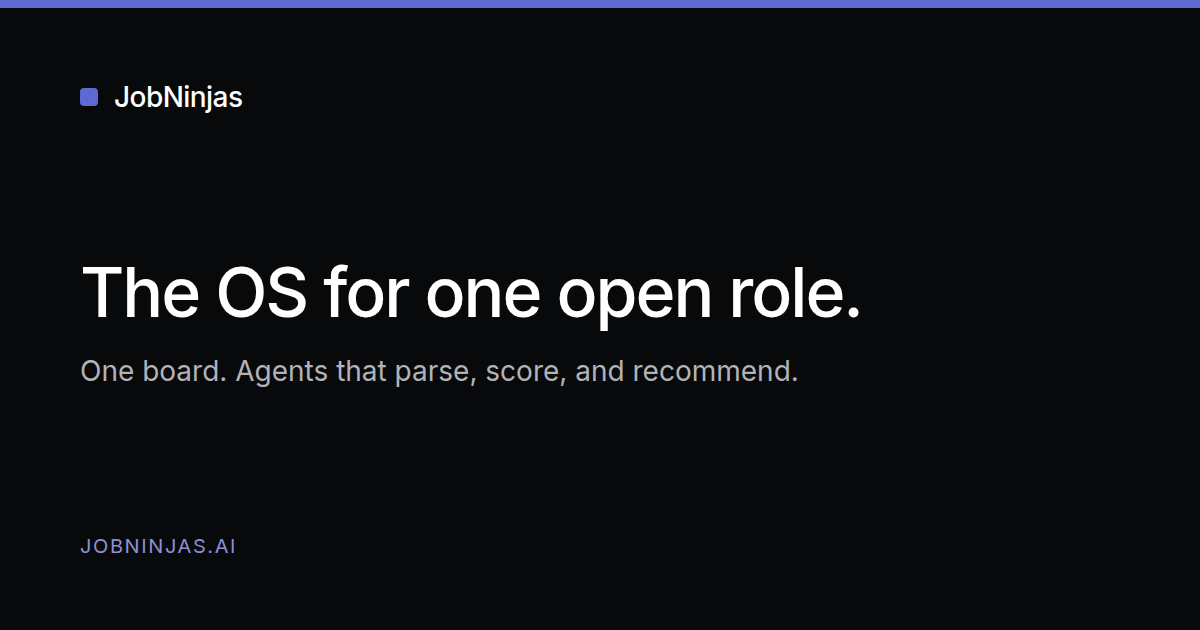
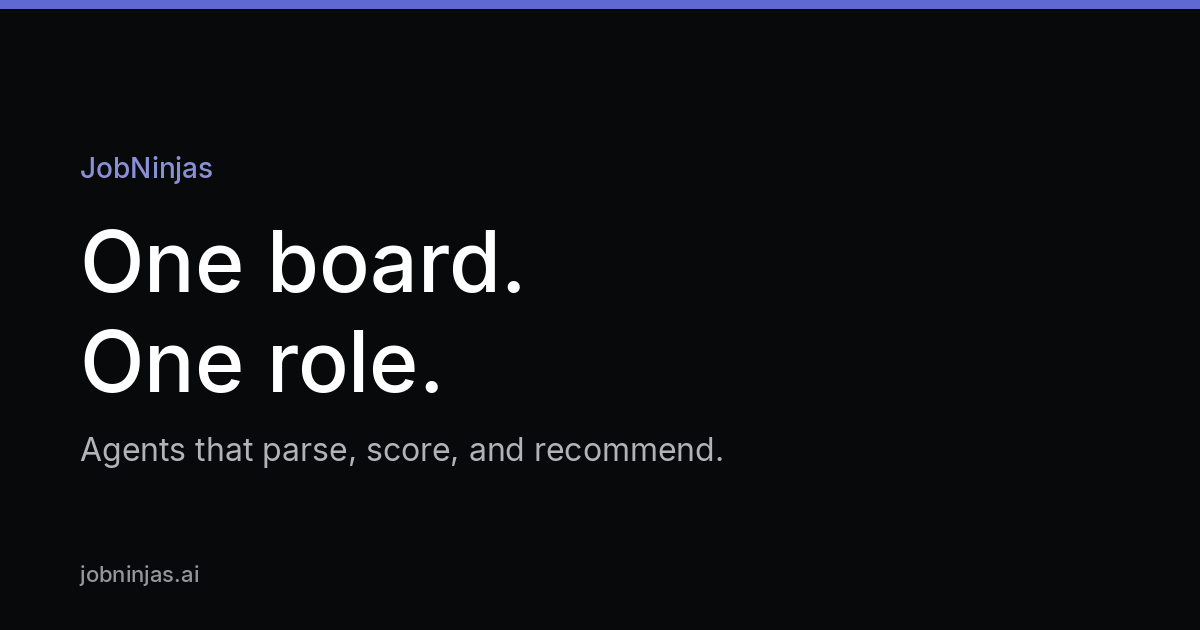
polish(marketing): enlarge the social card and match inner pages to the role voice
The OG image uses larger type, old canvas and copilot URLs redirect to the role board and Interview Analysis, and pricing no longer says the workspace is priced per role.

diff --git a/job-ninjas/apps/web/src/lib/marketing/site.ts b/job-ninjas/apps/web/src/lib/marketing/site.ts
@@ -198,26 +198,55 @@ const DEFAULT_POINTS = [
   },
 ];
 
+const roleBoard: MarketingTopic = {
+  kicker: "Product",
+  title: "The role board",
+  lede: "Every open role gets one board. It holds the job description, the people in process, their documents, and the agents running that hire.",
+  points: [
+    {
+      title: "The requisition is the container",
+      body: "Title, department, location, and job description live on the role. A second job is a second board.",
+    },
+    {
+      title: "Candidates stay attached",
+      body: "Each person on the role keeps a resume, a stage, and the agent output produced for them.",
+    },
+    {
+      title: "The pipeline is fixed work",
+      body: "JD Parser, Resume Parser, Screen & Score, Shortlist, Outreach, Interview Schedule, Interview Analysis, and Hiring Recommendation run on this requisition.",
+    },
+    {
+      title: "Not a whiteboard",
+      body: "Miro-class tools store stickies. This board runs agents. Each one reads an input and writes an output on the candidate.",
+    },
+  ],
+};
+
+const interviewAnalysis: MarketingTopic = {
+  kicker: "Product",
+  title: "Interview Analysis",
+  lede: "Interview Analysis reads the transcript against the interview plan and writes scores, quotes, and red flags. It does not join the call.",
+  points: [
+    {
+      title: "Schedule first",
+      body: "Interview Schedule proposes times and an invite message from the interview plan. You send it. Interview Planning is what writes that plan.",
+    },
+    {
+      title: "Transcript in",
+      body: "Paste the transcript. Interview Analysis scores what was actually said.",
+    },
+    {
+      title: "Recommendation out",
+      body: "Hiring Recommendation combines that analysis with the scorecard. A person still decides.",
+    },
+  ],
+};
+
 export const TOPICS: Record<string, MarketingTopic> = {
-  "product/canvas": {
-    kicker: "Product",
-    title: "The role board",
-    lede: "Every open role gets one board. It holds the job description, the people in process, their documents, and the agents running that hire.",
-    points: [
-      {
-        title: "The requisition is the container",
-        body: "Title, department, location, and job description live on the role. A second job is a second board.",
-      },
-      {
-        title: "Candidates stay attached",
-        body: "Each person on the role keeps a resume, a stage, and the agent output produced for them.",
-      },
-      {
-        title: "The pipeline is fixed work",
-        body: "JD Parser, Resume Parser, Screen & Score, Shortlist, Outreach, Interview Schedule, Interview Analysis, and Hiring Recommendation run on this requisition.",
-      },
-    ],
-  },
+  "product/role-board": roleBoard,
+  "product/canvas": roleBoard,
+  "product/interview-analysis": interviewAnalysis,
+  "product/copilot": interviewAnalysis,
   "product/resume-parser": {
     kicker: "Product",
     title: "Resume Parser",
@@ -237,29 +266,10 @@ export const TOPICS: Record<string, MarketingTopic> = {
       },
     ],
   },
-  "product/copilot": {
-    kicker: "Product",
-    title: "Interview analysis",
-    lede: "Interview Analysis reads the transcript against the interview plan and writes scores, quotes, and red flags. It does not join the call.",
-    points: [
-      {
-        title: "Schedule first",
-        body: "Interview Schedule proposes times and an invite message from the interview plan. You send it.",
-      },
-      {
-        title: "Transcript in",
-        body: "Paste the transcript. Interview Analysis scores what was actually said.",
-      },
-      {
-        title: "Recommendation out",
-        body: "Hiring Recommendation combines that analysis with the scorecard. A person still decides.",
-      },
-    ],
-  },
   "product/integrations": {
     kicker: "Product",
     title: "Greenhouse, then the rest of the role",
-    lede: "Import candidates from a Greenhouse job onto the role board. Gmail, Calendar, Slack, Workday, and DocuSign connectors sit on the same requisition so the hire does not scatter across tabs.",
+    lede: "Import candidates from a Greenhouse job onto the role. Greenhouse can stay the system of record. Connectors beyond that import are an Enterprise conversation.",
     points: [
       {
         title: "Greenhouse import",
@@ -347,7 +357,7 @@ export const TOPICS: Record<string, MarketingTopic> = {
       },
       {
         title: "Notes stay with the student",
-        body: "Transcript analysis is filed on the candidate, not in a separate doc.",
+        body: "Interview Analysis is filed on the candidate, not in a separate doc.",
       },
     ],
   },
@@ -436,7 +446,7 @@ export const TOPICS: Record<string, MarketingTopic> = {
   "resources/case-studies": {
     kicker: "Resources",
     title: "How a role board is meant to be used",
-    lede: "We are not publishing customer logos or invented metrics. These are the workflows the product is built to run.",
+    lede: "No customer logos and no invented metrics. These are the jobs the product is built to run on one requisition.",
     points: [
       {
         title: "Screen a slate",
@@ -448,7 +458,7 @@ export const TOPICS: Record<string, MarketingTopic> = {
       },
       {
         title: "Write the decision",
-        body: "A recommendation with rationale, then onsite logistics if you advance a finalist.",
+        body: "Hiring Recommendation writes the rationale. A person still decides who advances.",
       },
     ],
   },
@@ -465,7 +475,7 @@ export function topicFor(section: string, slug: string[]): MarketingTopic {
   return {
     kicker: section.replace(/-/g, " "),
     title: title || "JobNinjas",
-    lede: "JobNinjas is the operating system for one open role. Agents screen resumes, plan interviews, read transcripts, and write a decision on that requisition.",
+    lede: "JobNinjas is the OS for one open role. Agents parse the job and the resumes, score each candidate, and write a hiring recommendation on that requisition.",
     points: DEFAULT_POINTS,
   };
 }

diff --git a/job-ninjas/apps/web/src/app/(dashboard)/workflows/page.tsx b/job-ninjas/apps/web/src/app/(dashboard)/workflows/page.tsx
@@ -38,10 +38,10 @@ export default function WorkflowsPage() {
             <div className="p-2 bg-white/20 rounded-lg backdrop-blur-sm">
               <Workflow className="w-6 h-6 text-white" />
             </div>
-            <h2 className="text-3xl font-bold">Autonomous Hiring Workflows</h2>
+            <h2 className="text-3xl font-bold">One pipeline per role</h2>
           </div>
           <p className="text-indigo-100 text-base leading-relaxed mb-6">
-            Every open role in JobNinjas has one pipeline. Resume screening, interview planning, transcript analysis, and the decision stay on that requisition. Your team chooses who advances.
+            Every open role in JobNinjas has one pipeline. JD Parser, Resume Parser, Screen & Score, and Hiring Recommendation stay on that requisition. Your team chooses who advances.
           </p>
           <Link
             href="/roles"
@@ -96,7 +96,7 @@ export default function WorkflowsPage() {
                   </div>
                   <h4 className="text-base font-bold text-slate-900 mb-1">{role.title}</h4>
                   <p className="text-xs text-slate-500 mb-4 line-clamp-2">
-                    {role.jobDescription || 'Autonomous recruiting pipeline with connected AI agents and decision gates.'}
+                    {role.jobDescription || 'One role, with the agents that screen resumes and write a recommendation.'}
                   </p>
 
                   <div className="space-y-1.5 border-t border-slate-100 pt-3 mb-4 text-xs text-slate-600">
@@ -105,7 +105,7 @@ export default function WorkflowsPage() {
                       <span className="font-medium text-slate-800">{role.location}</span>
                     </div>
                     <div className="flex justify-between">
-                      <span className="text-slate-400">Candidates in DAG:</span>
+                      <span className="text-slate-400">Candidates:</span>
                       <span className="font-medium text-slate-800">{role.candidates?.length || 0}</span>
                     </div>
                     <div className="flex justify-between">
@@ -120,7 +120,7 @@ export default function WorkflowsPage() {
                   className="w-full flex items-center justify-center gap-2 bg-slate-900 hover:bg-blue-600 text-white font-semibold py-2 px-4 rounded-lg text-xs transition-colors"
                 >
                   <Layers className="w-3.5 h-3.5" />
-                  Open Canvas Board
+                  Open the role
                   <ArrowRight className="w-3.5 h-3.5" />
                 </Link>
               </div>

diff --git a/job-ninjas/apps/web/src/app/privacy/page.tsx b/job-ninjas/apps/web/src/app/privacy/page.tsx
@@ -16,7 +16,7 @@ export default function PrivacyPage() {
           ← Home
         </Link>
         <h1 className="mt-6 text-[36px] font-medium tracking-[-0.02em]">Privacy Policy</h1>
-        <p className="mt-3 text-[14px] text-[#94969c]">Last updated: {new Date().toLocaleDateString()}</p>
+        <p className="mt-3 text-[14px] text-[#94969c]">Last updated: October 27, 2026</p>
 
         <div className="mt-10 space-y-8 text-[15px] leading-relaxed text-[#b1b3b8]">
           <section>
@@ -24,7 +24,7 @@ export default function PrivacyPage() {
             <p>We collect information that you provide directly to us when using JobNinjas, including:</p>
             <ul className="list-disc pl-5 mt-2 space-y-1">
               <li>Account information (name, email, company details)</li>
-              <li>Workflow configurations and AI agent prompts</li>
+              <li>Role boards, job descriptions, resumes, and agent output</li>
               <li>Candidate data processed through our platform</li>
               <li>Usage data and interactions with our service</li>
             </ul>
@@ -35,7 +35,7 @@ export default function PrivacyPage() {
             <p>We use the collected information to:</p>
             <ul className="list-disc pl-5 mt-2 space-y-1">
               <li>Provide, maintain, and improve our AI hiring platform</li>
-              <li>Process and analyze candidate profiles as directed by your workflows</li>
+              <li>Process and analyze candidate profiles as directed on a role</li>
               <li>Communicate with you regarding service updates and support</li>
               <li>Ensure the security and integrity of our platform</li>
             </ul>

diff --git a/job-ninjas/apps/web/src/app/(dashboard)/settings/page.tsx b/job-ninjas/apps/web/src/app/(dashboard)/settings/page.tsx
@@ -80,7 +80,7 @@ export default function SettingsPage() {
               <div className="grid gap-5 max-w-xl">
                 <div>
                   <label className="block text-sm font-medium text-foreground mb-1">Company Name</label>
-                  <input type="text" defaultValue="Acme Corp Hiring" className="w-full px-3 py-2 bg-background border border-border rounded-lg text-sm focus:ring-2 focus:ring-blue-500 outline-none transition-all shadow-sm text-foreground" />
+                  <input type="text" defaultValue="Your company" className="w-full px-3 py-2 bg-background border border-border rounded-lg text-sm focus:ring-2 focus:ring-blue-500 outline-none transition-all shadow-sm text-foreground" />
                 </div>
                 <div>
                   <label className="block text-sm font-medium text-foreground mb-1">Industry</label>
@@ -216,7 +216,7 @@ export default function SettingsPage() {
                 <div>
                   <h3 className="font-medium text-foreground">Contact Support</h3>
                   <p className="text-sm text-muted-foreground mt-1 mb-3">
-                    Need help with your account or workflows? Our support team is here to help.
+                    Need help with a role or your account? Our support team is here to help.
                   </p>
                   <a href="mailto:veereddy@jobninjas.org" className="inline-flex items-center gap-2 px-4 py-2 bg-emerald-50 dark:bg-emerald-900/20 text-emerald-700 dark:text-emerald-400 hover:bg-emerald-100 dark:hover:bg-emerald-900/40 rounded-lg text-sm font-medium transition-colors">
                     <Mail className="w-4 h-4" />

diff --git a/job-ninjas/apps/web/src/app/page.tsx b/job-ninjas/apps/web/src/app/page.tsx
@@ -37,7 +37,7 @@ const STEPS = [
   {
     n: "03",
     title: "Run the agents",
-    body: "The same pipeline runs for each person: score the resume, plan the interview, read the transcript, and write a decision. You choose who advances.",
+    body: "The same pipeline runs for each person: parse the job and the resume, score the match, then shortlist, draft outreach, schedule, analyze the interview, and write a recommendation. You choose who advances.",
   },
 ];
 
@@ -55,7 +55,7 @@ const USES = [
   {
     href: "/use-cases/executive",
     title: "A short senior search",
-    body: "Fewer people, a written recommendation, and onsite travel once you advance a finalist.",
+    body: "Fewer people, a written recommendation, and interview times you send yourself.",
   },
   {
     href: "/use-cases/campus",
@@ -210,7 +210,7 @@ export default function Home() {
                 Start with one role.
               </h2>
               <p className="mt-4 text-[15px] leading-relaxed text-[#b1b3b8]">
-                Priced per role. Team is a flat monthly plan.
+                Starter is one open role. Team is $49 a month for the workspace, not per person.
               </p>
             </div>
             <div className="mt-10 grid gap-4 lg:grid-cols-3">

diff --git a/job-ninjas/apps/web/src/app/terms/page.tsx b/job-ninjas/apps/web/src/app/terms/page.tsx
@@ -16,7 +16,7 @@ export default function TermsPage() {
           ← Home
         </Link>
         <h1 className="mt-6 text-[36px] font-medium tracking-[-0.02em]">Terms and Conditions</h1>
-        <p className="mt-3 text-[14px] text-[#94969c]">Last updated: {new Date().toLocaleDateString()}</p>
+        <p className="mt-3 text-[14px] text-[#94969c]">Last updated: October 27, 2026</p>
 
         <div className="mt-10 space-y-8 text-[15px] leading-relaxed text-[#b1b3b8]">
           <section>
@@ -26,7 +26,7 @@ export default function TermsPage() {
 
           <section>
             <h2 className="text-[18px] font-medium tracking-[-0.02em] text-white">2. Use of AI Agents</h2>
-            <p>JobNinjas provides AI-powered hiring agents and workflow automation tools. You are responsible for ensuring that your use of these agents complies with all applicable employment laws, anti-discrimination regulations, and hiring practices in your jurisdiction.</p>
+            <p>JobNinjas provides hiring agents for one open role. You are responsible for ensuring that your use of these agents complies with all applicable employment laws, anti-discrimination regulations, and hiring practices in your jurisdiction.</p>
           </section>
 
           <section>

diff --git a/job-ninjas/apps/web/src/components/floating-ui.tsx b/job-ninjas/apps/web/src/components/floating-ui.tsx
@@ -144,7 +144,7 @@ export function FloatingHeader() {
         </div>
 
         <div className="flex items-center gap-2 px-4 text-sm font-medium">
-          <span className="text-blue-600 dark:text-blue-400 bg-blue-50 dark:bg-blue-900/30 px-2.5 py-0.5 rounded-full text-xs font-semibold">Acme Corp</span>
+          <span className="text-blue-600 dark:text-blue-400 bg-blue-50 dark:bg-blue-900/30 px-2.5 py-0.5 rounded-full text-xs font-semibold">Workspace</span>
           <span className="text-muted-foreground">/</span>
           {isEditingTitle ? (
             <input
@@ -162,7 +162,7 @@ export function FloatingHeader() {
               onClick={startEditing}
               title="Click to edit board name"
             >
-              {currentRole ? currentRole.title : "Acme Corp Hiring"}
+              {currentRole ? currentRole.title : "Open role"}
             </span>
           )}
         </div>

diff --git a/job-ninjas/apps/web/src/app/product/[...slug]/page.tsx b/job-ninjas/apps/web/src/app/product/[...slug]/page.tsx
@@ -1,8 +1,14 @@
 import type { Metadata } from "next";
+import { redirect } from "next/navigation";
 import { TopicPage } from "@/components/marketing/topic-page";
 import { topicFor, topicSeo } from "@/lib/marketing/site";
 
 type Props = { params: Promise<{ slug: string[] }> };
+
+const ALIASES: Record<string, string> = {
+  canvas: "/product/role-board",
+  copilot: "/product/interview-analysis",
+};
 
 export async function generateMetadata({ params }: Props): Promise<Metadata> {
   const { slug } = await params;
@@ -12,5 +18,7 @@ export async function generateMetadata({ params }: Props): Promise<Metadata> {
 
 export default async function ProductTopicPage({ params }: Props) {
   const { slug } = await params;
+  const alias = slug.length === 1 ? ALIASES[slug[0]] : undefined;
+  if (alias) redirect(alias);
   return <TopicPage section="product" slug={slug} />;
 }

diff --git a/job-ninjas/apps/web/src/app/(dashboard)/dashboard/page.tsx b/job-ninjas/apps/web/src/app/(dashboard)/dashboard/page.tsx
@@ -166,7 +166,7 @@ export default function DashboardPage() {
                       <Plus className="w-6 h-6" />
                     </div>
                     <p className="text-[13px] font-semibold text-slate-700">No active boards</p>
-                    <p className="text-xs text-slate-400 max-w-sm">Create a role to configure your first visual agent workflow.</p>
+                    <p className="text-xs text-slate-400 max-w-sm">Create a role. The job, the candidates, and the agents stay on that requisition.</p>
                     <Link href="/roles"
                       className="px-4 py-2 bg-blue-600 text-white text-[12px] font-semibold rounded-lg hover:bg-blue-700 transition-colors">
                       + Create Role Board

diff --git a/job-ninjas/apps/web/src/components/marketing-layout.tsx b/job-ninjas/apps/web/src/components/marketing-layout.tsx
@@ -156,7 +156,7 @@ export function MarketingFooter() {
             <span className="text-[15px] font-medium tracking-[-0.02em] text-white">JobNinjas</span>
           </Link>
           <p className="mt-4 max-w-xs text-[13px] leading-relaxed text-[#94969c]">
-            The OS for one open role. Agents screen, plan, and write the decision. Your team still hires.
+            The OS for one open role. Agents parse the job, score candidates, and write a recommendation. Your team still hires.
           </p>
           <TrialLink className="mt-5 inline-flex rounded-[4px] bg-[#5e6ad2] px-3.5 py-2 text-[13px] font-medium text-white shadow-[inset_0_1px_0_rgba(255,255,255,0.18)] hover:bg-[#6d78d8]" />
         </div>

diff --git a/job-ninjas/apps/web/src/app/resources/page.tsx b/job-ninjas/apps/web/src/app/resources/page.tsx
@@ -39,7 +39,7 @@ export default function ResourcesPage() {
         <div className="max-w-3xl">
           <p className="text-[12px] font-medium uppercase tracking-[0.16em] text-[#8b90d6]">Resources</p>
           <h1 className="mt-3 text-[40px] font-medium leading-[1.1] tracking-[-0.02em] sm:text-[52px]">
-            Learn the role. Skip the brochure.
+            How a requisition runs.
           </h1>
           <p className="mt-5 text-[17px] leading-relaxed text-[#b1b3b8]">
             Start with how a requisition runs: the job description, the candidates, and the agents on that role.

diff --git a/job-ninjas/apps/web/src/app/solutions/page.tsx b/job-ninjas/apps/web/src/app/solutions/page.tsx
@@ -37,7 +37,7 @@ export default function SolutionsPage() {
             The same role board, three kinds of team.
           </h1>
           <p className="mt-5 text-[17px] leading-relaxed text-[#b1b3b8]">
-            We are not publishing customer quotes. These are the ways the product is meant to be used.
+            A founder, an in-house talent team, or an agency. Each one runs a requisition as its own board.
           </p>
         </div>
         <div className="mt-12 grid gap-4 md:grid-cols-3">
